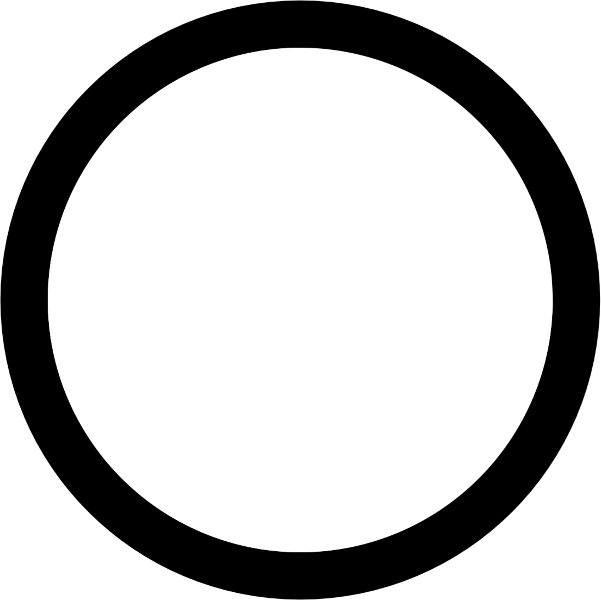
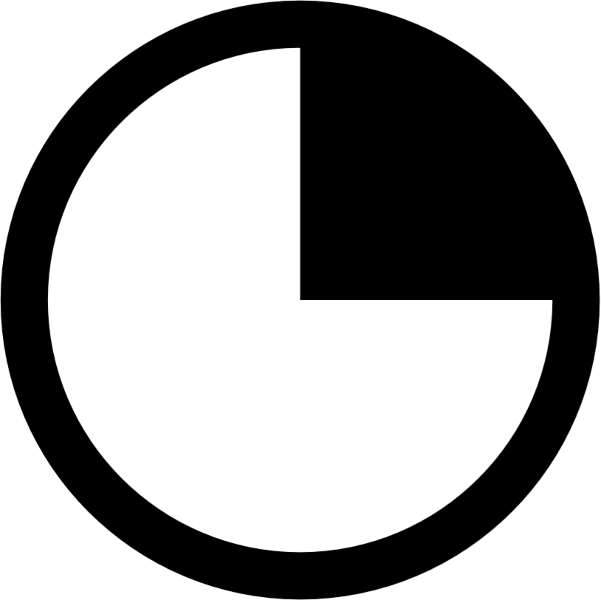
działają procesy w dashboard

diff --git a/public/workspace-table.js b/public/workspace-table.js
@@ -7,7 +7,7 @@ function getDate(nexthop) {
   return day + "-" + month + "-" + year;
 }
 
-function getStartDate(){
+function getStartDate() {
   const today = new Date();
   let day = today.getDate();
   let month = today.getMonth() + 1;
@@ -15,12 +15,12 @@ function getStartDate(){
   return year + "-" + month + "-" + day;
 }
 
-
 function tableDate(datesTable) {
-      for (let i = 0; i < 5; i++) {
-        datesTable.push(getDate(i));
-      }
-    }
+  for (let i = 0; i < 5; i++) {
+    datesTable.push(getDate(i));
+  }
+}
+
 
 const app = Vue.createApp({
   data() {
@@ -39,6 +39,7 @@ const app = Vue.createApp({
       processId: [],
       checkProcess: "",
       checkProcessTable: {},
+      riskTable: [50,50,50,50,50,50],
     };
   },
 
@@ -129,23 +130,70 @@ const app = Vue.createApp({
     },
 
     compareNames(obj1, obj2) {
-            console.log(obj1);
-            console.log(obj2);
       for (let id in obj2) {
-          if (obj1 === obj2[id]) {
-            return true;
-          }
+        if (obj1 === obj2[id]) {
+          return true;
         }
+      }
       return false;
+    },
+
+    compareProcess(obj1, obj2) {
+      for (let id in obj2) {
+        if (obj1 === obj2[id].employee_id) {
+          this.riskTable.push(Math.floor(obj2[id].average));
+          return "styles/" + Math.floor(obj2[id].average) + ".png";
+        }
+      }
+      return "styles/0.png";
+    },
+
+    compareRisk(obj1, obj2) {
+      for (let id in obj2) {
+        if (obj1 === obj2[id].employee_id) {
+          this.riskTable.push(Math.floor(obj2[id].average));
+          return Math.floor(obj2[id].average);
+        }
+      }
+      this.riskTable.push(0);
+      return 0;
     },
 
     async getProcess() {
       try {
-        console.log(this.checkProcess);
+        var methodRiskTable = [0, 0, 0, 0, 0];
         this.checkProcessTable = await axios.get(
           "/employees/process/" + this.checkProcess
         );
-        console.log(this.checkProcessTable);
+        for (let id in this.checkProcessTable.data) {
+          // console.log(this.checkProcessTable.data.length);
+          // console.log(this.checkProcessTable.data[id].employee_id);
+          for (let idAbsence in this.employeesData.data) {
+            if (
+              this.employeesData.data[idAbsence].employee_id ===
+              this.checkProcessTable.data[id].employee_id
+            ) {
+              for (let idEmployeeAbsence in this.employeesData.data[idAbsence]
+                .absences) {
+                // console.log(
+                //   this.employeesData.data[idAbsence].absences[idEmployeeAbsence]
+                // );
+                if (
+                  !this.employeesData.data[idAbsence].absences[
+                    idEmployeeAbsence
+                  ]
+                ) {
+                  methodRiskTable[idEmployeeAbsence] += 1;
+                }
+              }
+              //  console.log(this.employeesData.data[idAbsence]);
+            }
+          }
+          // console.log(this.employeesData.data);
+        }
+        
+        this.riskTable=methodRiskTable;
+        this.riskTable.unshift(50);
       } catch (error) {
         console.error(error);
       }

diff --git a/public/index.html b/public/index.html
@@ -141,16 +141,16 @@
             </div>
 
             <div class="dropdown">
-              <button v-on:click="getProcessesById">> Process</button>
+              <button> Process</button>
             <div class="dropdown-content-workspace">
                 <select
                   name="process"
                   id="process-select"
                   style="width: 100%"
-                  v-model="processCondition"
+                  v-model="checkProcess"
                 >
                   <option value="Select Process">Select Process</option>
-                  <option v-for="skill in processes.data" v-model="checkProcess" v-bind:value="skill.process_id">
+                  <option v-for="skill in processes.data" v-bind:value="skill.process_id">
                     {{skill.name}} {{skill.process_id}}
                   </option>
                 </select>
@@ -162,15 +162,20 @@
           <table>
 
             <div>
-                        <li>
-              <h2 v-for="date in dates">{{date}}</h2>
+              <li>
+              <h2 v-for="(date,index) in dates">{{date}}
+                <img src="styles/warning.png" alt="logo" v-if="riskTable[index]<3" style="width:30%;">
+              </h2>
+
             </li>
             <li v-for="(person,index) in employeesData.data">
               <div v-if="(skillsConditions.length!==0&&conditions.length!==0&&(compareObjects(person.skills, skillsConditions))&&(compareNames(person.first_name, conditions)||compareNames(person.second_name, conditions)))||(skillsConditions.length!==0&&conditions.length===0&&(compareObjects(person.skills, skillsConditions)))||(skillsConditions.length===0&&conditions.length!==0&&((compareNames(person.first_name, conditions)||compareNames(person.second_name, conditions))))" style="display:flex; flex-direction: row; flex:1;">
               <h2 style="flex:1;">{{person.first_name}} {{person.second_name}}
                               <a style="font-size:7px;" v-for="skill in person.skills">{{skill.skill_name}},</a>
                             </h2>
-              <h2 style="flex:1;" v-for="date in person.absences">{{date ? "urlop":""}}</h2></div>
+              <h2 style="flex:1;" v-for="date in person.absences">{{date ? "urlop":""}}</h2>
+              <h2>{{compareProcess(person.employee_id, checkProcessTable.data)}}</h2>
+            </div>
             </li>
             </div>
 
@@ -179,9 +184,12 @@
           <table>
             <li v-for="(person,index) in employeesData.data">
               <h2>{{person.first_name}} {{person.second_name}}
-                                <a style="font-size:7px;" v-for="skill in person.skills">{{skill.skill_name}},</a>
+                  <a style="font-size:7px;" v-for="skill in person.skills">{{skill.skill_name}},</a>
               </h2>
-              <h2 v-for="date in person.absences">{{date ? "urlop":""}}</h2>
+              <h2 v-for="date in person.absences">
+                {{date ? "urlop":""}}
+                <img v-if="!date" v-bind:src="compareProcess(person.employee_id, checkProcessTable.data)" alt="logo" style="height:50%; align-self: auto;"/>
+              </h2>
             </li>
           </table>
         </div>
